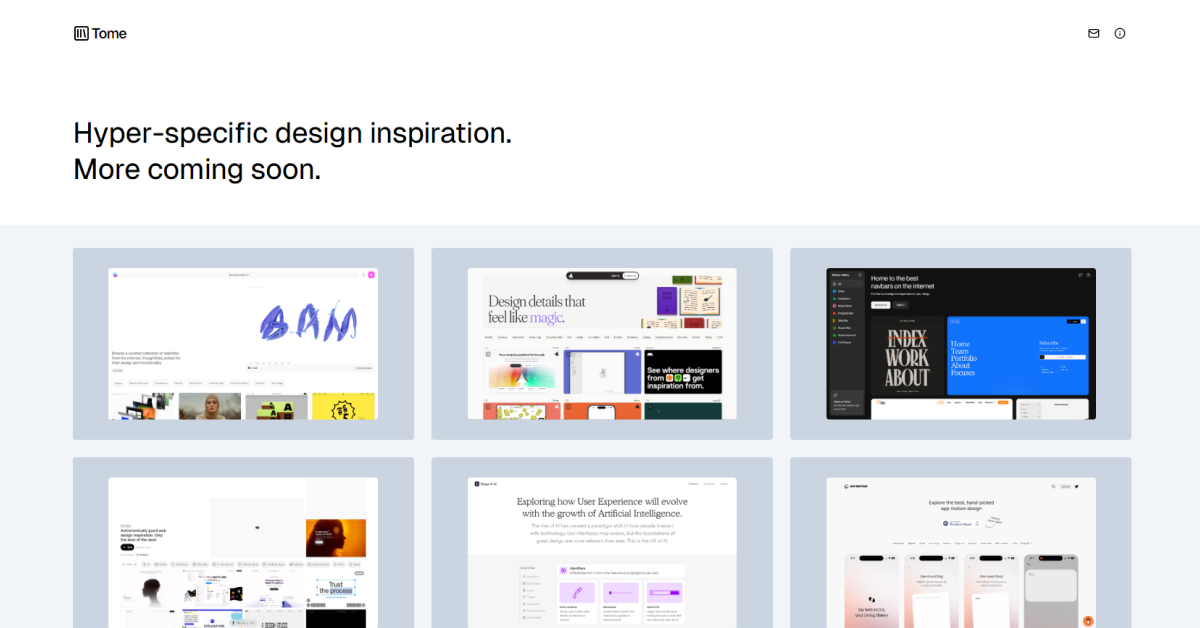
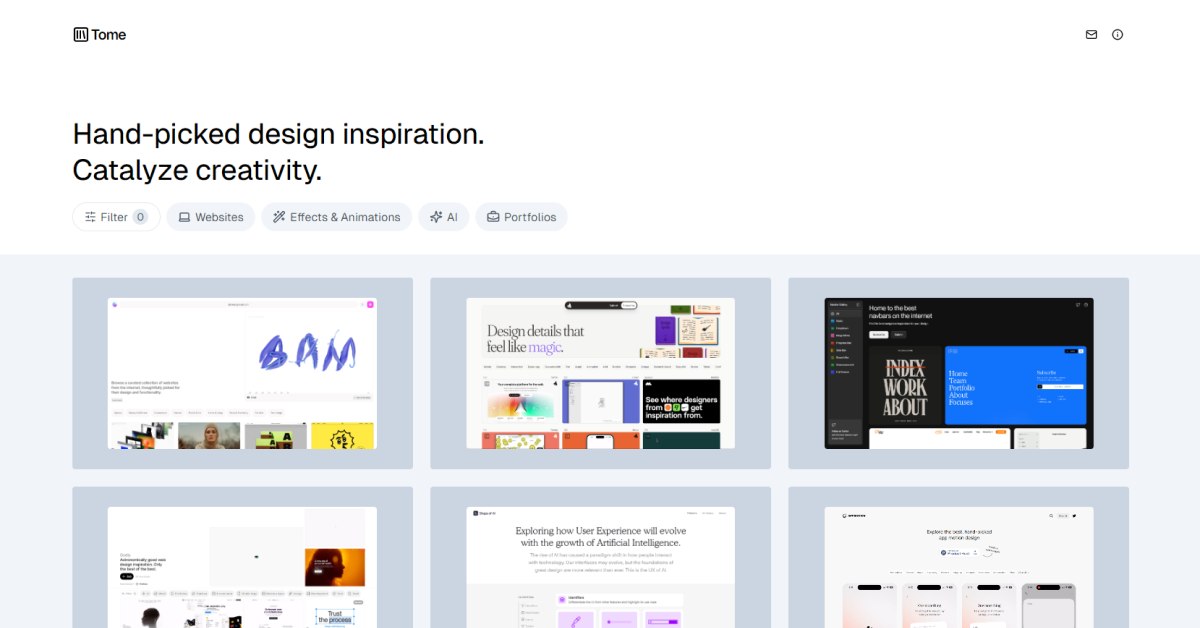
updated metatags

diff --git a/src/lib/components/Metatags.svelte b/src/lib/components/Metatags.svelte
@@ -2,19 +2,19 @@
   <!-- Primary Meta Tags -->
   <title>Tome</title>
   <meta name="title" content="Tome" />
-  <meta name="description" content="Searchable curated design inspiration. More coming soon." />
+  <meta name="description" content="Searchable hand-picked design inspiration." />
 
   <!-- Open Graph / Facebook -->
   <meta property="og:type" content="website" />
   <meta property="og:url" content="https://www.tome.design/" />
   <meta property="og:title" content="Tome" />
-  <meta property="og:description" content="Searchable curated design inspiration. More coming soon." />
+  <meta property="og:description" content="Searchable hand-picked design inspiration." />
   <meta property="og:image" content="https://www.tome.design/tome-card.png" />
 
   <!-- Twitter -->
   <meta property="twitter:card" content="summary_large_image" />
   <meta property="twitter:url" content="https://www.tome.design/" />
   <meta property="twitter:title" content="Tome" />
-  <meta property="twitter:description" content="Searchable curated design inspiration. More coming soon." />
+  <meta property="twitter:description" content="Searchable hand-picked design inspiration." />
   <meta property="twitter:image" content="https://www.tome.design/tome-card.png" />
 </svelte:head>
